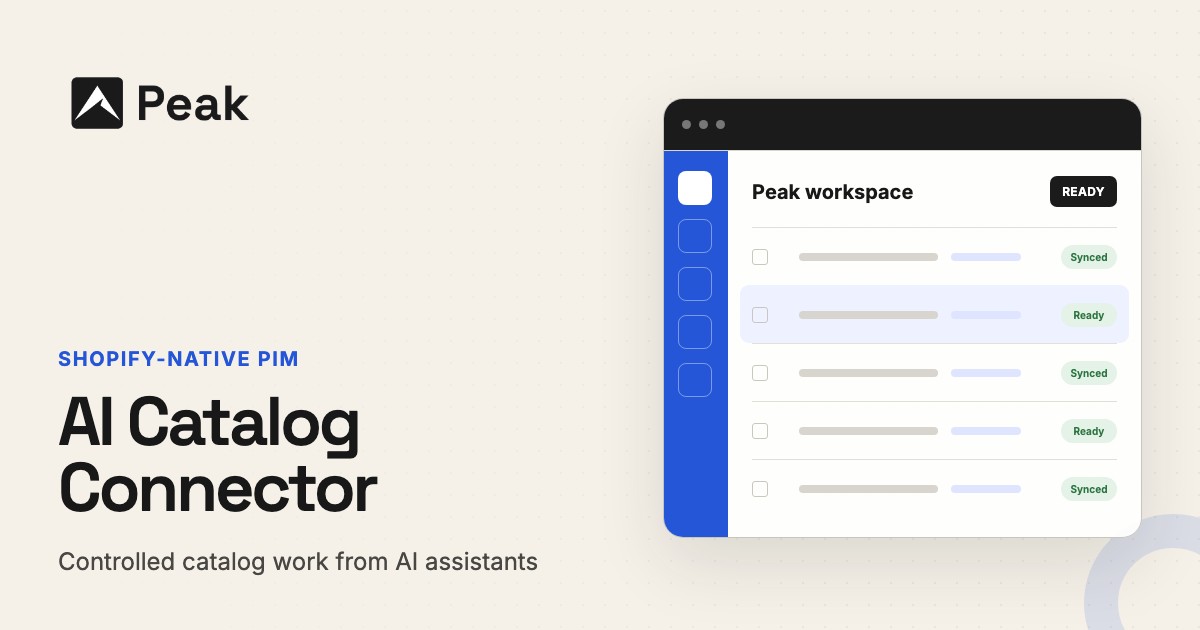
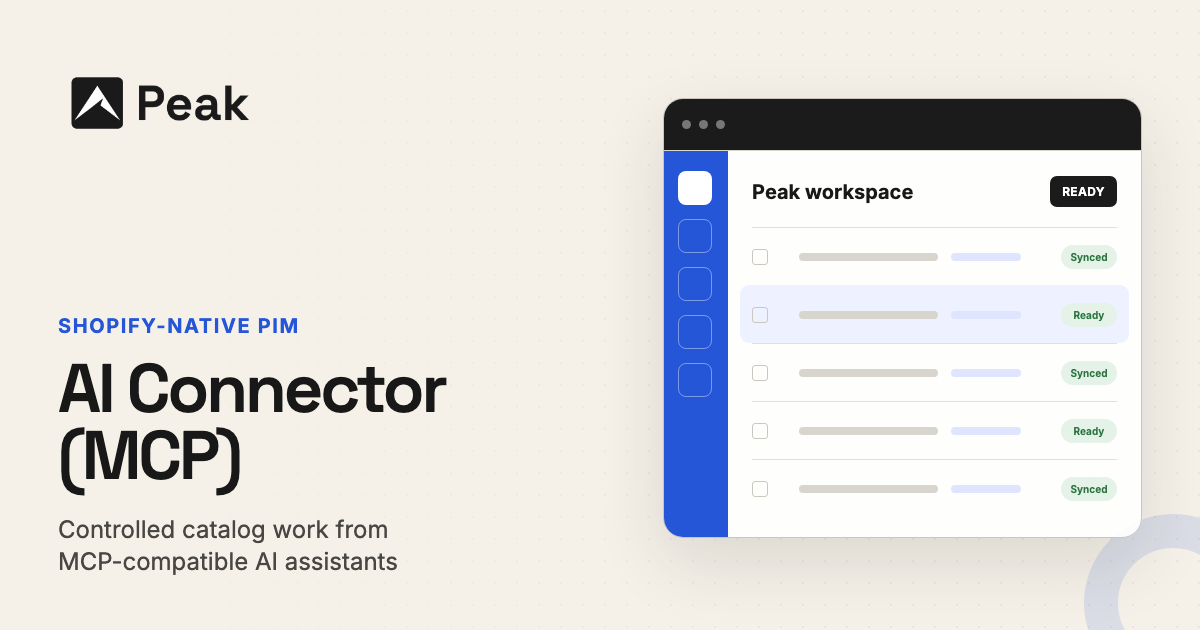
Standardize MCP and API navigation labels

Changed region(s): [[0.0308, 0.4825, 0.4625, 0.9048]]

diff --git a/tests/visual/design-system.spec.ts b/tests/visual/design-system.spec.ts
@@ -94,6 +94,12 @@ test("global navigation · every feature is grouped and reachable", async ({ pag
     await featureToggle.press("Enter");
     await expect(featureToggle).toHaveAttribute("aria-expanded", "true");
     await expect(header.locator(".feature-mega-menu__title")).toHaveText(["Connect", "Operate", "Manage & Enrich"]);
+    await expect(header.locator('.feature-mega-menu__group[aria-labelledby="feature-group-connect"] .feature-mega-menu__link-title')).toHaveText([
+      "1-click setup",
+      "Shopify sync",
+      "AI Connector (MCP)",
+      "API",
+    ]);
     await expect(header.locator('.feature-mega-menu__group[aria-labelledby="feature-group-operate"] .feature-mega-menu__link-title')).toHaveText([
       "Multi-store",
       "Bulk edit",
@@ -212,7 +218,7 @@ test("health-center · responsive analysis and repair contract", async ({ page }
 });
 
 for (const feature of [
-  { name: "ai-connector", path: "/ai-catalog-connector", aria: "Peak PIM AI connector conversation showing a merchant asking about missing SEO descriptions and reviewing catalog results", motion: ".peak-ai-message.is-assistant" },
+  { name: "ai-connector", path: "/ai-catalog-connector", aria: "Peak PIM AI Connector (MCP) conversation showing a merchant asking about missing SEO descriptions and reviewing catalog results", motion: ".peak-ai-message.is-assistant" },
   { name: "developer-api", path: "/api", aria: "Peak PIM developer API workspace showing a store-specific product update and publish response", motion: ".peak-api-divider" },
   { name: "metaobjects", path: "/shopify-metaobjects", aria: "Peak PIM metaobject workspace showing a Size Guide definition, typed entry fields, and publishing results across Shopify stores", motion: ".peak-mo-stores > div" },
   { name: "metafields", path: "/shopify-metafield-management", aria: "Peak PIM metafield definition workspace showing one Material definition linked across US, France, and Germany Shopify stores", motion: ".peak-mf-coverage > div:last-of-type" },

diff --git a/src/data/site-navigation.ts b/src/data/site-navigation.ts
@@ -19,8 +19,8 @@ export const featureNavigationGroups: FeatureNavigationGroup[] = [
     links: [
       { label: "1-click setup", href: "/1-click-setup", description: "Connect a Shopify store in minutes." },
       { label: "Shopify sync", href: "/shopify-sync", description: "Keep every catalog change flowing to Shopify." },
-      { label: "AI Connector", href: "/ai-catalog-connector", description: "Work with your catalog from AI assistants." },
-      { label: "Developer API", href: "/api", description: "Build custom catalog workflows and integrations." },
+      { label: "AI Connector (MCP)", href: "/ai-catalog-connector", description: "Connect MCP-compatible AI assistants to your catalog." },
+      { label: "API", href: "/api", description: "Build custom catalog workflows and integrations." },
     ],
   },
   {

diff --git a/docs/design-system.md b/docs/design-system.md
@@ -64,7 +64,7 @@ All pages also use the original global antialiasing settings (`-webkit-font-smoo
 
 The header mega menu and footer share the feature taxonomy defined in `src/data/site-navigation.ts`. Every new feature page must be added there so it appears consistently in both locations:
 
-- **Connect**: onboarding, Shopify sync, AI connectors, APIs, and integrations.
+- **Connect**: onboarding, Shopify sync, the AI Connector (MCP), APIs, and integrations.
 - **Operate**: multi-store operations, bulk editing, import/export, media management, Drops, catalog health, and team permissions.
 - **Manage & Enrich**: products and variants, collections, metafields, metaobjects, translations, Markets and catalog pricing, custom fields, and other structured product-content capabilities.
 - **Solutions**: industry- and team-specific landing pages such as Fashion.
